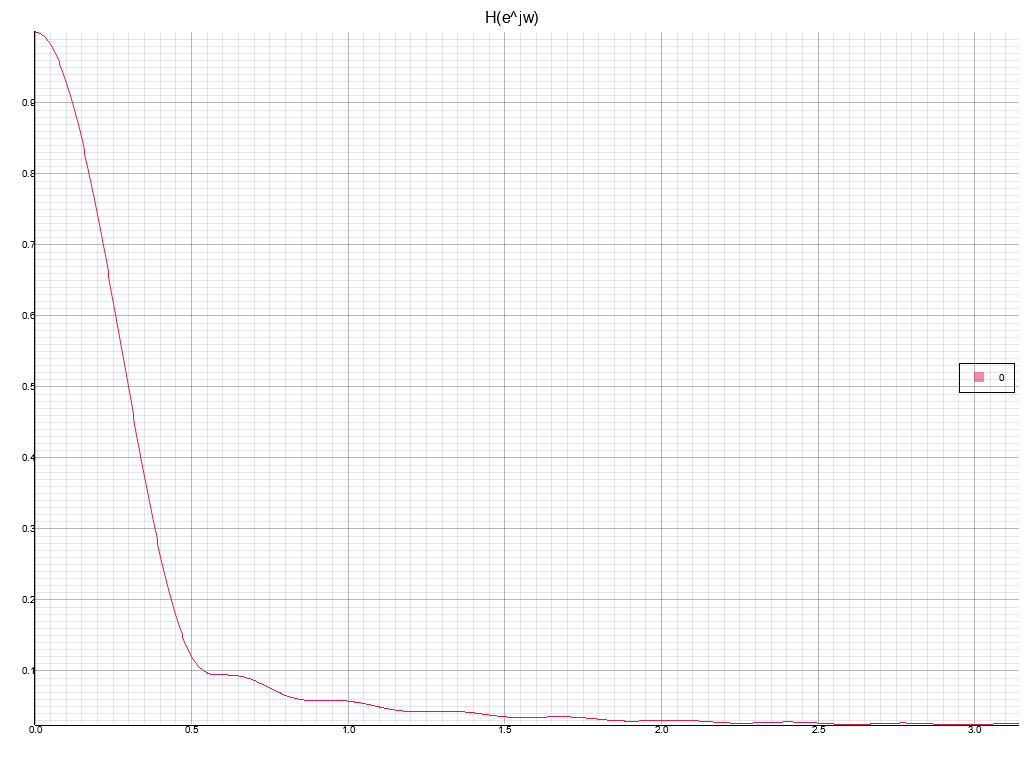
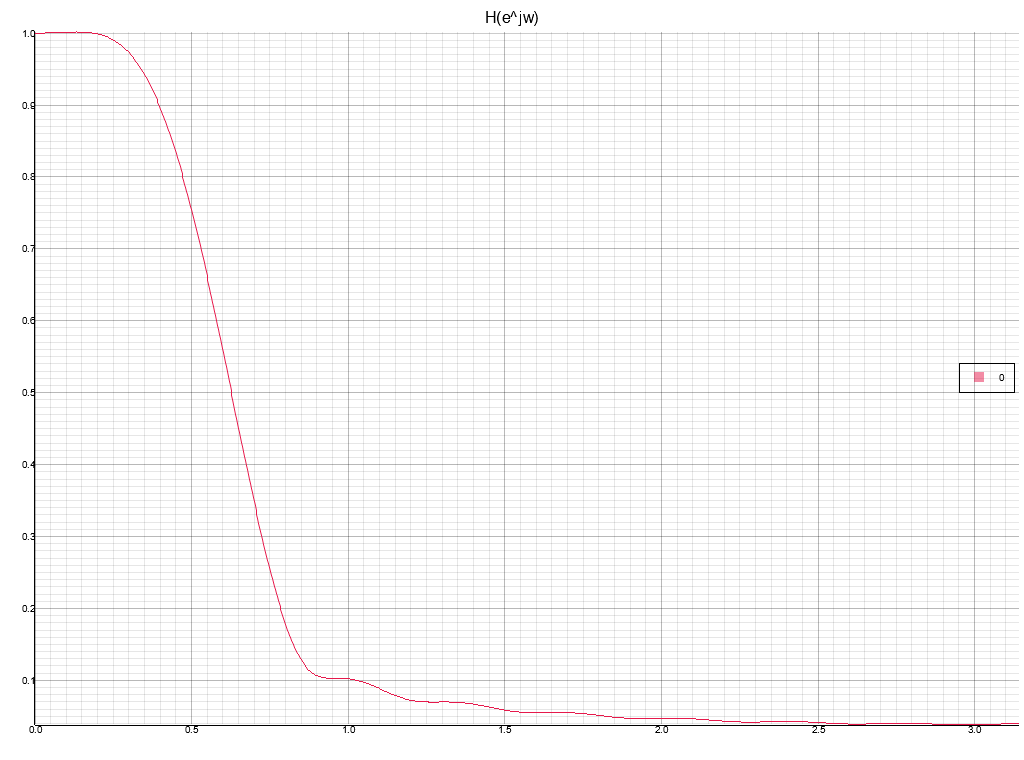
Fix sinc function in qp_kaiser

Changed region(s): [[0.0312, 0.0303, 1.0, 0.575], [0.0312, 0.6658, 1.0, 0.9684], [0.0312, 0.6053, 1.0, 0.6355]]

diff --git a/src/gen/filter/qp_kaiser.rs b/src/gen/filter/qp_kaiser.rs
@@ -67,7 +67,7 @@ where
             }
             else
             {
-                (x*nb_recip).sin()/x
+                (x*nb_recip*T::PI()).sin()/(x*T::PI())
             })*w).into()
         }).collect();
 
